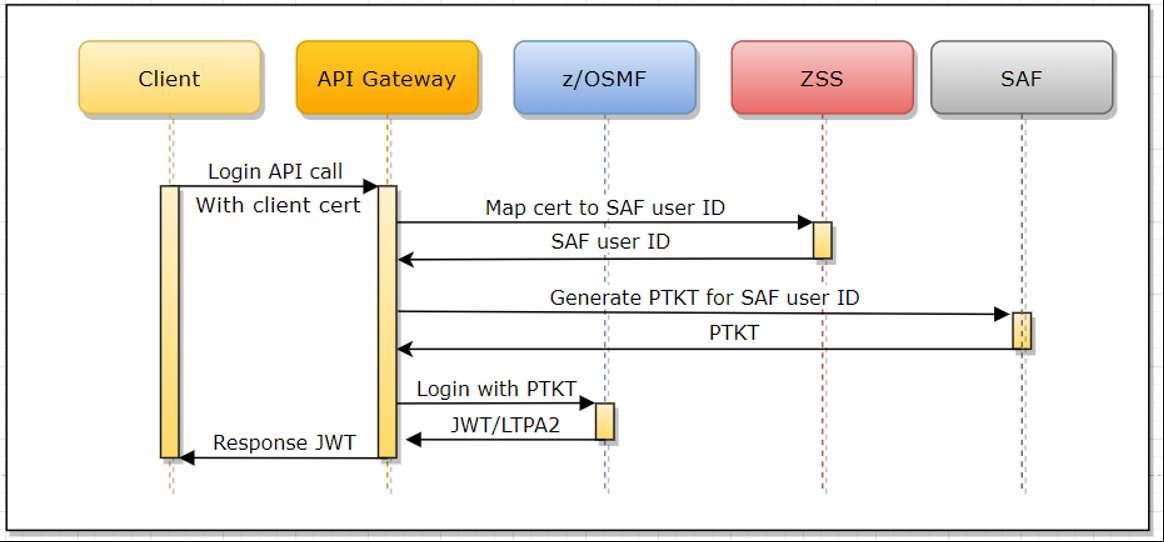
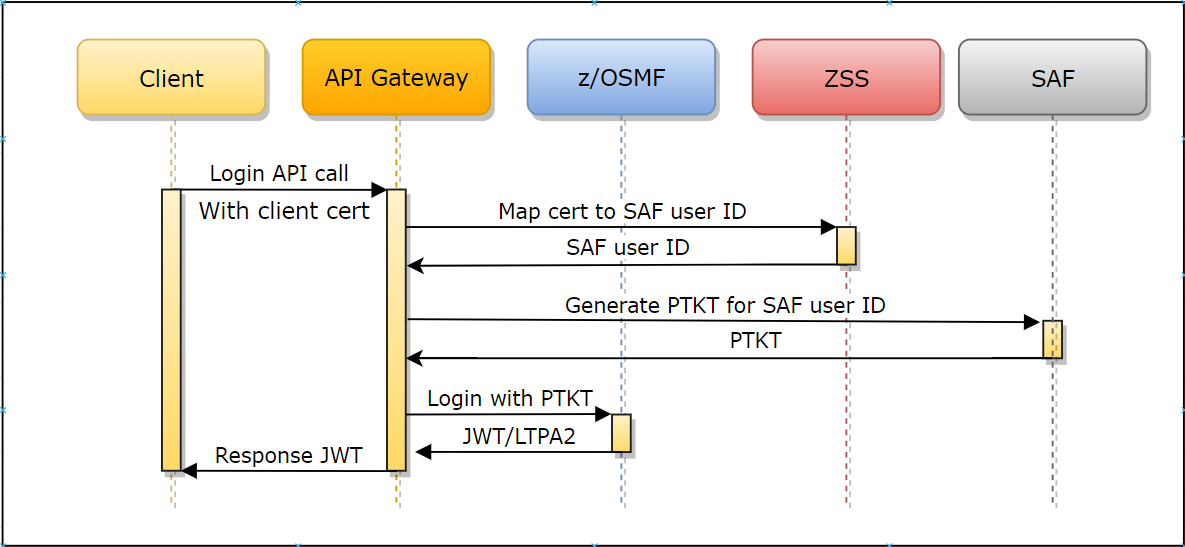
Add image and minor tweaks

diff --git a/docs/extend/extend-apiml/api-mediation-security.md b/docs/extend/extend-apiml/api-mediation-security.md
@@ -212,13 +212,13 @@ Beginning with release 1.19 LTS, it is possible to perform authentication with c
 
 If the keyring or a truststore contains at least one valid certificate authority (CA) other than the CA of the API ML, it is possible to use the client certificates issued by this CA to authenticate to the API ML. This feature is not enabled by default and needs to be configured.
 
-Authentication is performed in the following ways:
+**Authentication is performed in the following ways:**
 * The client calls the API ML Gateway login endpoint with the client certificate.
 * The client certificate and private key are checked as a valid TLS client certificate against the Gateway's trusted CAs.
 * The public part of the provided client certificate is checked against SAF, and SAF subsequently returns a user ID that owns this certificate. ZSS  provides this API for the Mediation Layer.
 * The Gateway performs the login of the mapped user and returns a valid JWT token.
 
-<img src="../../images/api-mediation/zowe-client-cert-auth.png" alt="Zowe client certificate authentication diagram" align=center/>
+<img src="../../images/api-mediation/zowe-client-cert-auth.png" alt="Zowe client certificate authentication diagram" align=center width="700px"/>
 
 **Prerequisities:**
 * Ensure that you have an external Certificate Authority and signed client certificates, or generate these certificates in SAF. The client certificate has to have correct `Extended Key Usage` metadata to allow being used for TLS client authentication. (`OID: 1.3.6.1.5.5.7.3.2`)
